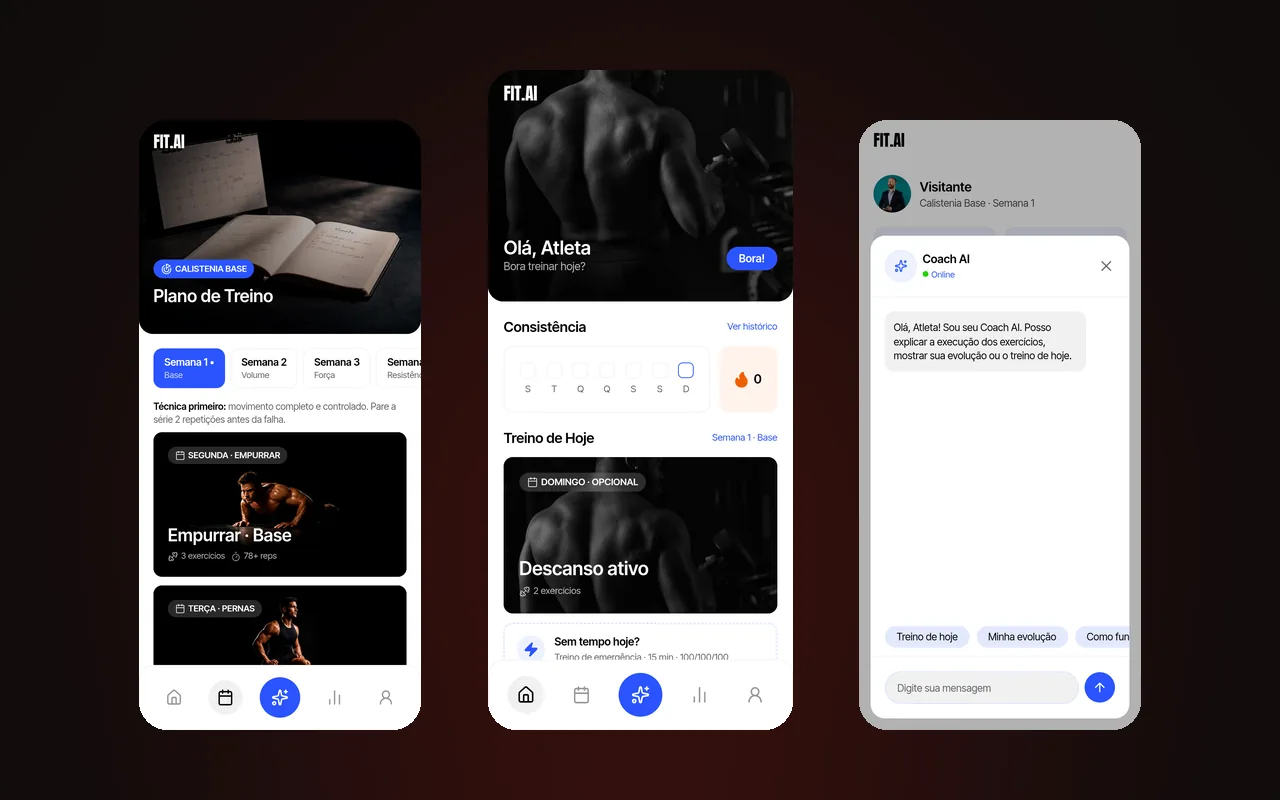
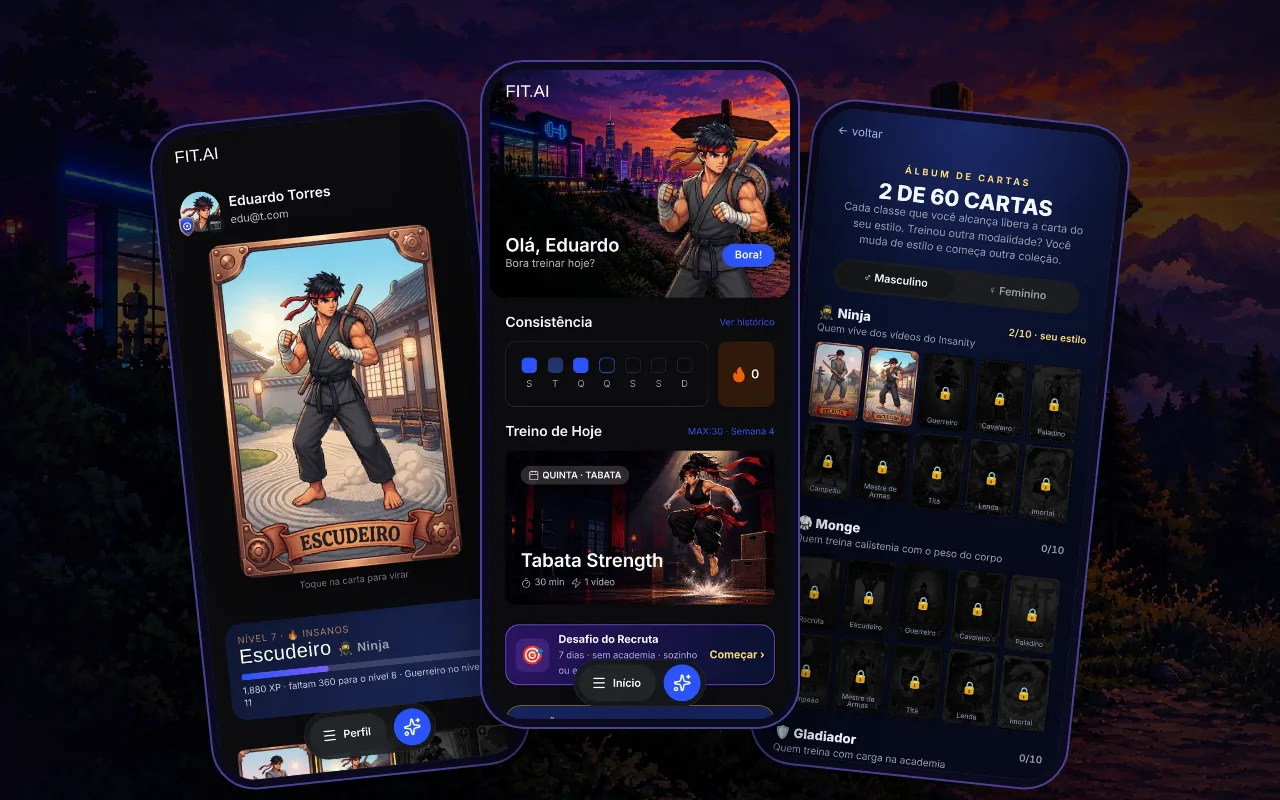
FIT.AI: card com as telas novas em pixel art e textos do app RPG com IA
Claude-Session: https://claude.ai/code/session_01YKWXprGo3otLYkswAR1xmk

diff --git a/src/sections/trajetoria.html b/src/sections/trajetoria.html
@@ -34,7 +34,7 @@
             <span class="sanfona__quem"><strong data-camada="texto">Produtos com IA</strong><span data-camada="texto">Projetos próprios · SaaS e apps</span></span>
             <i class="sanfona__sinal" aria-hidden="true"></i>
           </button>
-          <div class="sanfona__corpo" id="exp-3" hidden><p>FIT.AI com Coach AI em streaming, Juri-AI com RAG em documentos jurídicos e um app de treinos com um agente de IA que monta o plano semanal.</p></div>
+          <div class="sanfona__corpo" id="exp-3" hidden><p>FIT.AI, app de treino em RPG pixel art com Coach de IA, mestres e classes, Juri-AI com RAG em documentos jurídicos e um app de treinos com um agente de IA que monta o plano semanal.</p></div>
         </li>
       </ul>
 
@@ -43,7 +43,7 @@
         <p class="titulo-cond marcos__titulo"><span data-camada="texto">No ar<span class="pq">.</span></span><br /><span class="vermelho" data-camada="texto">Em uso.</span></p>
         <ul class="marcos__lista" data-duplica>
           <li><a class="marco sel" href="https://banhoetosa.eduardotorres-dev.com.br" target="_blank" rel="noopener"><span class="marco__n" data-camada="texto">01</span><span class="marco__nome"><strong data-camada="texto">Banho e Tosa Sol</strong><span data-camada="texto">Site · cliente real</span></span><svg class="ico" aria-hidden="true"><use href="#u-ne"/></svg></a></li>
-          <li><a class="marco sel" href="https://fitai.eduardotorres-dev.com.br" target="_blank" rel="noopener"><span class="marco__n" data-camada="texto">02</span><span class="marco__nome"><strong data-camada="texto">FIT.AI</strong><span data-camada="texto">App com IA · 2026</span></span><svg class="ico" aria-hidden="true"><use href="#u-ne"/></svg></a></li>
+          <li><a class="marco sel" href="https://fitai.eduardotorres-dev.com.br" target="_blank" rel="noopener"><span class="marco__n" data-camada="texto">02</span><span class="marco__nome"><strong data-camada="texto">FIT.AI</strong><span data-camada="texto">App RPG com IA · 2026</span></span><svg class="ico" aria-hidden="true"><use href="#u-ne"/></svg></a></li>
           <li><a class="marco sel" href="https://painel.eduardotorres-dev.com.br" target="_blank" rel="noopener"><span class="marco__n" data-camada="texto">03</span><span class="marco__nome"><strong data-camada="texto">Painel Comercial</strong><span data-camada="texto">Dados · 2026</span></span><svg class="ico" aria-hidden="true"><use href="#u-ne"/></svg></a></li>
         </ul>
       </div>

diff --git a/src/sections/projetos.html b/src/sections/projetos.html
@@ -25,10 +25,10 @@
     </div>
 
     <ul class="projetos__grade" data-duplica>
-      <li class="projeto" data-tipo="ia" data-busca="fit.ai fitai calistenia treino coach claude app ia strava">
+      <li class="projeto" data-tipo="ia" data-busca="fit.ai fitai treino rpg pixel art gamificação xp mestres classes coach claude app ia insanity academia calistenia corrida cross supabase">
         <a class="projeto__link" href="https://fitai.eduardotorres-dev.com.br" target="_blank" rel="noopener">
-          <span class="projeto__img" data-camada="foto"><img src="/img/proj-fitai.webp" width="1280" height="800" alt="Telas do FIT.AI: plano de treino, início e o Coach AI" loading="lazy" decoding="async" /></span>
-          <span class="projeto__etiqueta" data-camada="texto">App com IA</span>
+          <span class="projeto__img" data-camada="foto"><img src="/img/proj-fitai.webp" width="1280" height="800" alt="Telas do FIT.AI em pixel art: a carta do personagem, o início com o treino do dia e o álbum de cartas" loading="lazy" decoding="async" /></span>
+          <span class="projeto__etiqueta" data-camada="texto">App RPG com IA</span>
           <span class="projeto__pe" data-camada="bloco">
             <strong class="projeto__num" data-camada="texto">01</strong>
             <span class="projeto__nome" data-camada="texto">FIT.AI</span>
